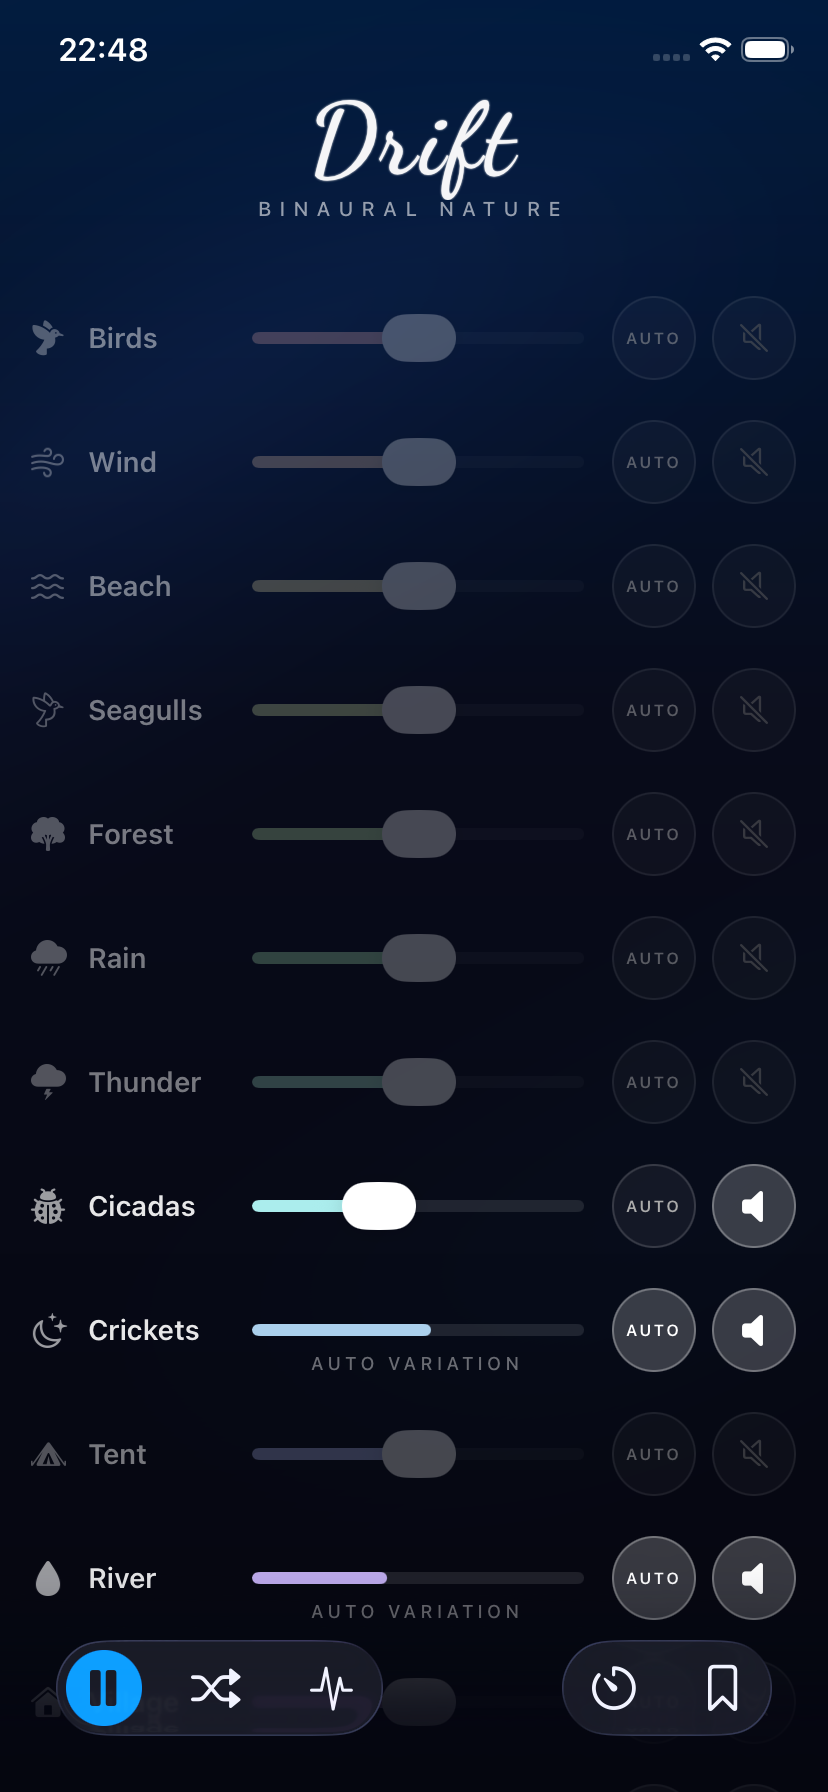
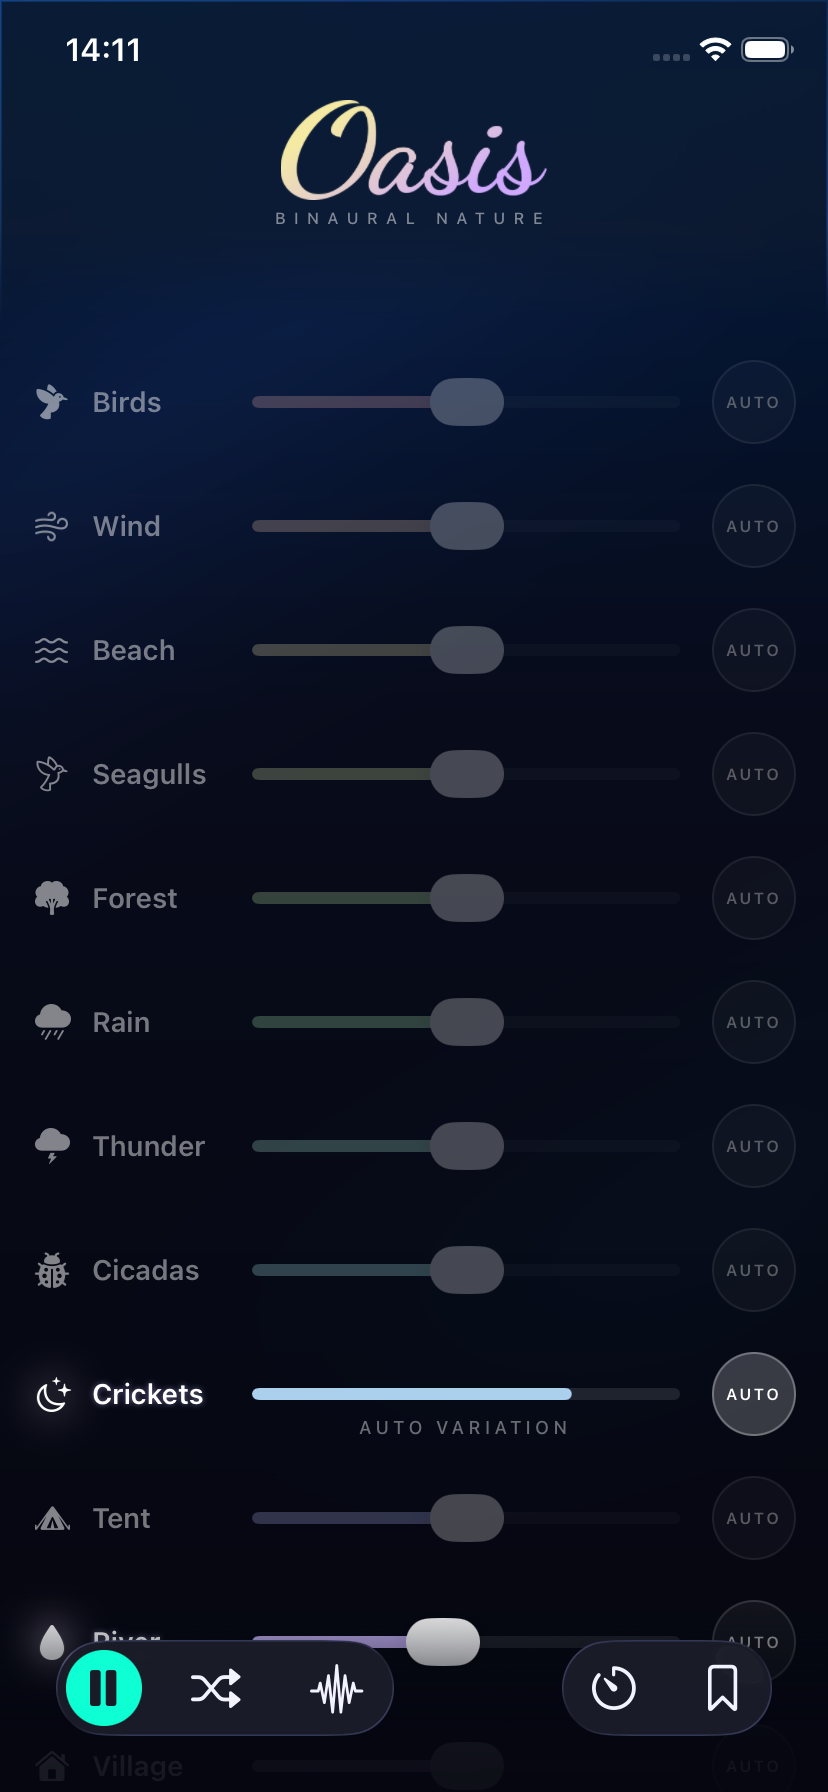
fix fastlane

diff --git a/src/store/useMixerStore.ts b/src/store/useMixerStore.ts
@@ -77,8 +77,8 @@ export const useMixerStore = create<MixerStore>()(
         const newChannels = { ...INITIAL_CHANNELS }; // Start with completely muted base
 
         // Pick 2 to 4 random channels to activate
-        const maxActive = Math.min(4, channelIds.length);
-        const minActive = Math.min(2, channelIds.length);
+        const maxActive = Math.min(8, channelIds.length);
+        const minActive = Math.min(4, channelIds.length);
         const numActive =
           Math.floor(Math.random() * (maxActive - minActive + 1)) + minActive;
         const shuffled = channelIds.sort(() => 0.5 - Math.random());

diff --git a/src/i18n/pt.ts b/src/i18n/pt.ts
@@ -2,7 +2,7 @@ import type { Translations } from "./en";
 
 export const pt: Translations = {
   header: {
-    title: "Refúgio",
+    title: "Oasis",
     timer: "Timer",
   },
   channels: {
@@ -26,7 +26,7 @@ export const pt: Translations = {
     default_storm: "Tempestade Distante",
   },
   modal: {
-    title: "Meus refúgios",
+    title: "Meus Oasis",
     defaultPresets: "Padrão",
     yourPresets: "Seus Presets",
     saveNew: "Salvar novo",

diff --git a/src/app/binaural.tsx b/src/app/binaural.tsx
@@ -198,6 +198,7 @@ export default function BinauralScreen() {
             </View>
             <View style={styles.headerActions}>
               <Switch
+                testID="BinauralToggle"
                 value={isBinauralActive}
                 onValueChange={() => {
                   Haptics.impactAsync(Haptics.ImpactFeedbackStyle.Medium);

diff --git a/src/components/LiquidButton.tsx b/src/components/LiquidButton.tsx
@@ -91,6 +91,7 @@ export const LiquidButton: React.FC<LiquidButtonProps> = ({
           height: size,
           borderRadius,
           overflow: "hidden",
+          borderWidth: 0,
         },
         isActive && styles.active,
         isActive && activeColor ? { borderColor: activeColor } : {},

diff --git a/src/components/MixerBoard.tsx b/src/components/MixerBoard.tsx
@@ -68,6 +68,6 @@ const styles = StyleSheet.create({
   },
   content: {
     paddingBottom: 140,
-    paddingTop: 180, // Adds space for the absolute header so the first slider isn't hidden
+    paddingTop: 150, // Adds space for the absolute header so the first slider isn't hidden
   },
 });

diff --git a/src/app/presets.tsx b/src/app/presets.tsx
@@ -125,6 +125,7 @@ function DraggablePresetRow({
     <GestureDetector gesture={panGesture}>
       <Animated.View style={animatedStyle}>
         <Pressable
+          testID={preset.id}
           style={({ pressed }) => [
             styles.presetRow,
             isActive && {

diff --git a/src/components/Header.tsx b/src/components/Header.tsx
@@ -52,7 +52,7 @@ const styles = StyleSheet.create({
     left: 0,
     right: 0,
     zIndex: 10,
-    paddingBottom: 40, // Extended padding for a smoother blur fade
+    paddingBottom: 30, // Extended padding for a smoother blur fade
   },
   header: {
     paddingTop: 50,

diff --git a/src/app/index.tsx b/src/app/index.tsx
@@ -205,7 +205,6 @@ export default function HomeScreen() {
 
       {/* Main content */}
       <View style={styles.container}>
-        <LanguageSwitcher />
         <AudioEngine />
         <BinauralAudioEngine />
         <AnimatedBackground />
